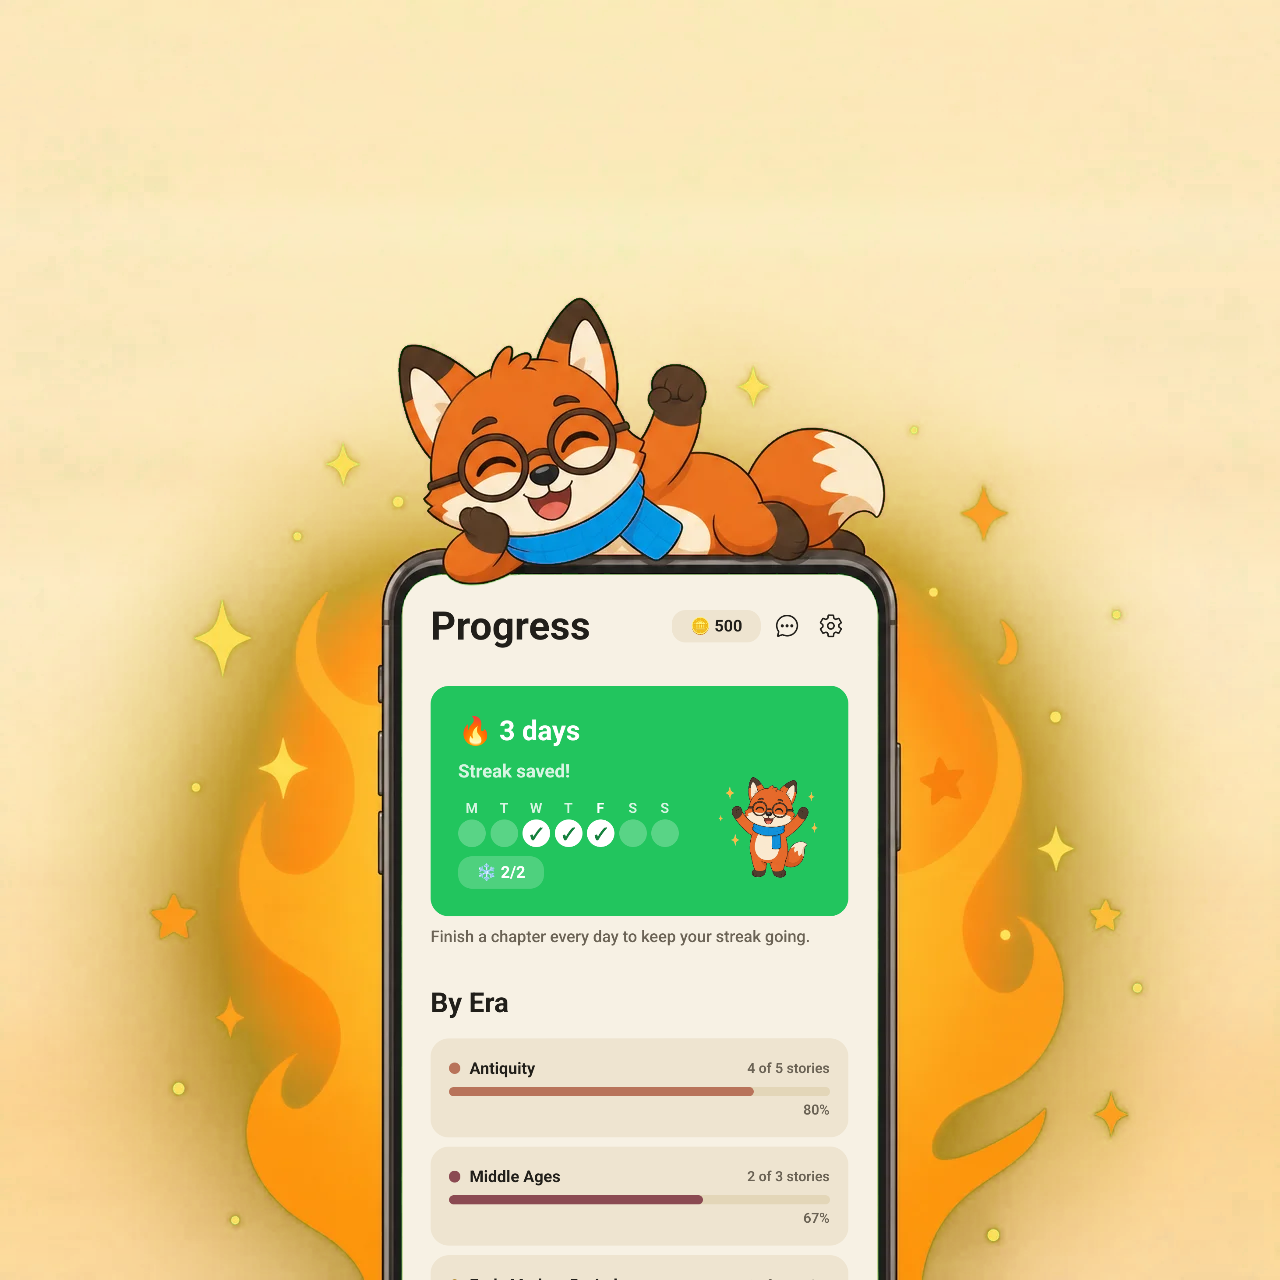
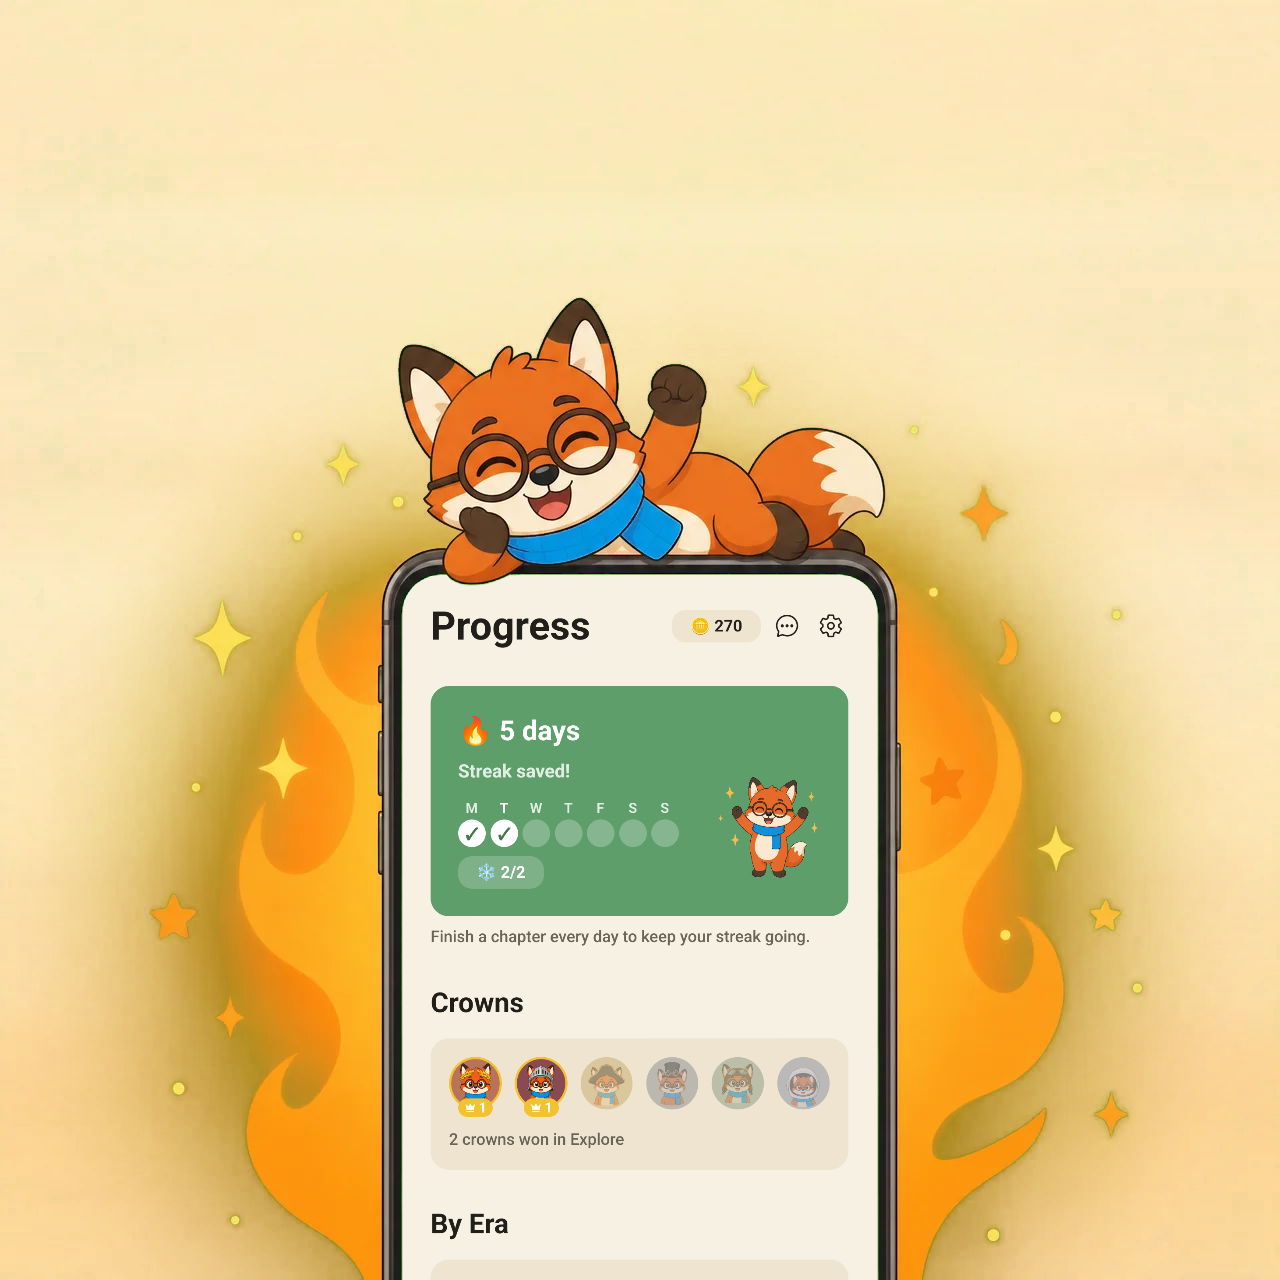
Store screenshots for 1.4: journey, chapter roadmap, quiz, trivia wheel, streak, reader
Six slides in store/assets/screenshots-1.4/, from real emulator captures of a
premium test account (no ads, light theme). No counts and no 'Phoxy' in the copy.

Changed region(s): [[0.3125, 0.5312, 0.6875, 0.7188], [0.3438, 0.7812, 0.6562, 0.9688]]

diff --git a/store/screenshots.html b/store/screenshots.html
@@ -1,10 +1,10 @@
 <!doctype html>
 <!--
-  De telefoon-screenshots voor de Play Store (1.3), als sjabloon.
+  De telefoon-screenshots voor de Play Store (1.3, vernieuwd in 1.4), als sjabloon.
 
   Zelfde aanpak als feature-graphic.html: dit bestand is de bron, de PNG's niet. Elke dia is
   1080×1920 (9:16, wat Play wil) en wordt door `npm run generate:store-screenshots` met headless
-  Chrome gerenderd — één keer per dia, met `?n=1` t/m `?n=4`. Open hem in een browser met
+  Chrome gerenderd — één keer per dia, met `?n=1` t/m `?n=6`. Open hem in een browser met
   `?n=3` om één dia te bekijken.
 
   De schermen zelf zijn echte emulator-screenshots (`store/screenshots-bron/`, 1080×2400). De
@@ -131,35 +131,43 @@
 
 <script>
   // Elke dia: kop, onderregel, achtergrond, welk scherm, welke vos en aan welke kant.
+  // 1.4: zes dia's. Twee met een Higgsfield-scène (Home, streak), vier met de getekende telefoon
+  // in hetzelfde warme verloop. "Phoxy" is een interne naam en komt dus niet in de koppen; en geen
+  // aantallen (verhalen, tijdperken, kroontjes) — die verouderen zodra er iets bijkomt.
+  const WARM = { van: '#FFEBC2', naar: '#FDD48E', tekst: '#4A2C1A' };
   const DIAS = [
     {
-      kop: 'Learn history<br>every day',
-      sub: 'Real stories about the people and moments that shaped our world.',
-      van: '#0EA5E9', naar: '#075985',
-      scherm: 'home.png', vos: 'zwaaiend.png', kant: 'links',
+      kop: 'Travel from Rome<br>to today',
+      sub: 'One journey through history, one true story at a time.',
+      scherm: 'home-1.4.png', vos: 'zwaaiend.png', kant: 'links',
       scene: 'scenes/klaar/scene-1-home.png', achtergrond: '#FFEBC2', tekst: '#4A2C1A',
     },
     {
-      kop: 'Stories that read<br>like a novel',
-      sub: 'Short chapters with an illustrated scene to open each one.',
-      van: '#FFEBC2', naar: '#FDD48E', tekst: '#4A2C1A',
-      scherm: 'reader.png', vos: 'fase-2-ochtend.png', kant: 'rechts', spiegel: true,
+      kop: 'Follow every story,<br>chapter by chapter',
+      sub: 'Each chapter opens with an illustrated scene.',
+      ...WARM, scherm: 'route-verhaal-1.4.png', vos: 'op-weg.png', kant: 'links',
+    },
+    {
+      kop: 'Learn<br>as you read',
+      sub: 'A quick question after every chapter, with a friendly fox as your teacher.',
+      ...WARM, scherm: 'quiz-goed.png', vos: 'leraar-wijzend.png', kant: 'rechts', spiegel: true, statusbalk: '#89847C',
+    },
+    {
+      kop: 'Spin the wheel,<br>win the crowns',
+      sub: 'History trivia from every era. How many crowns can you collect?',
+      ...WARM, scherm: 'explore-1.4.png', vos: 'era-middeleeuwen.png', kant: 'links',
     },
     {
       kop: 'Keep your<br>streak alive',
       sub: 'One chapter a day. The fox cheers you on.',
-      van: '#22C55E', naar: '#166534',
-      scherm: 'progress.png', vos: 'fase-1-gevierd.png', kant: 'links',
+      scherm: 'voortgang-1.4.png', vos: 'fase-1-gevierd.png', kant: 'links',
       // Hier staat de telefoon in het midden van de scène, dus gecentreerd: 540 − 640 × 1,35.
       scene: 'scenes/klaar/scene-2-streak.png', achtergrond: '#FFEBC2', tekst: '#4A2C1A', sceneLinks: -324,
     },
     {
-      kop: 'Earn Ducats,<br>save your streak',
-      sub: 'Read to earn coins and buy a streak freeze for busy days.',
-      van: '#38BDF8', naar: '#1D4ED8',
-      scherm: 'shop.png', vos: 'fase-8-ijs.png', kant: 'links',
-      // Telefoon links-midden, vos op het ijsblok rechts: zo vallen allebei binnen de 1080 px.
-      scene: 'scenes/klaar/scene-3-shop.png', achtergrond: '#FFEBC2', tekst: '#4A2C1A', sceneLinks: -550,
+      kop: 'Stories that read<br>like a novel',
+      sub: 'Short chapters about real people and the moments that shaped our world.',
+      ...WARM, scherm: 'reader-1.4.png', vos: 'fase-2-ochtend.png', kant: 'rechts', spiegel: true,
     },
   ];
 
